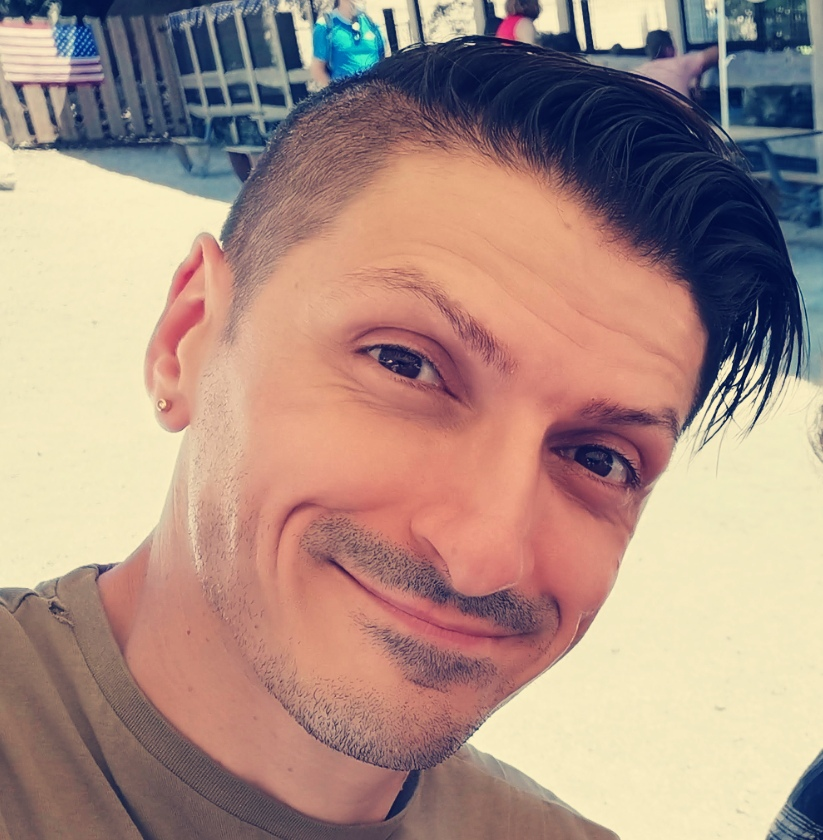
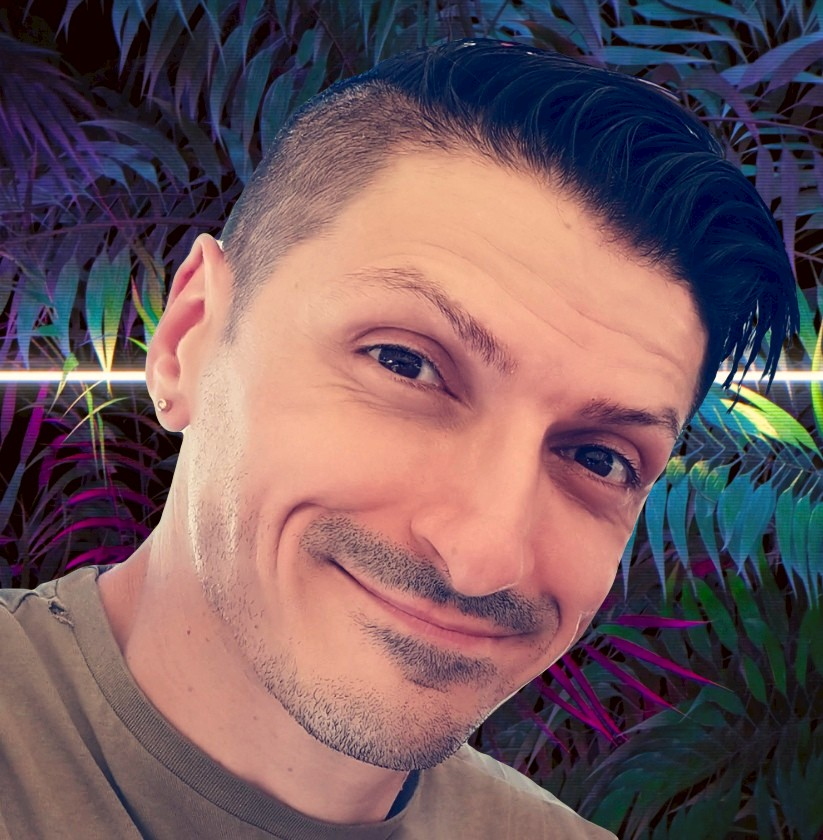
reboot of project - testing some things

diff --git a/index.html b/index.html
@@ -66,7 +66,7 @@
             <!-- The main element container display the info card usualy called "about me", and the character with all the skills practiced -->
             <div class="main_element_container">
                 <div class="main_element_container_infos"></div>
-                <div class="main_element_container_skills"></div>
+                <div class="main_element_container_skills"><p class="wip">Work in progress</p></div>
                 
                 
             </div>

diff --git a/css/styles.css b/css/styles.css
@@ -18,7 +18,7 @@ body{
     width: 100%;
     height: 100%;
     background-color: black;
-    background-image: url(../Ressources/images/Network.jpg);
+    background-image: url(../Ressources/images/NeonLeaves.jpg);
     background-size: cover;
     background-attachment: fixed;
     background-position: center;

diff --git a/css/main.css b/css/main.css
@@ -2,6 +2,13 @@
  /************CONTENT CONTAINER************/
 /*****************************************/
 
+.wip {
+    color: aliceblue;
+    font-size: 3rem;
+    width: 45%;
+}
+
+
 /*This content_container own the interface elements and set properties about it*/
 .content-container {
     height: 70vh;
